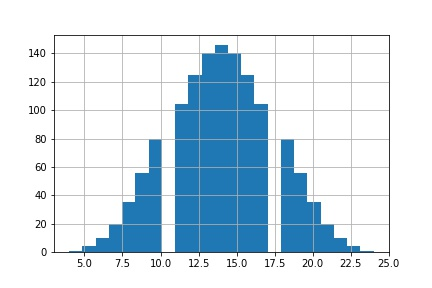
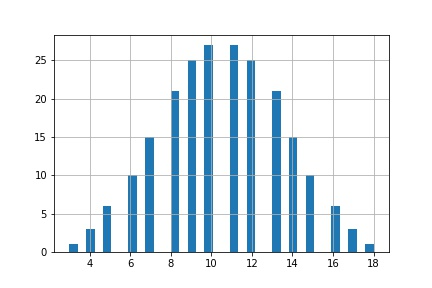
git work

Changed region(s): [[0.0602, 0.125, 0.9329, 0.9375]]

diff --git a/weight_guesser/dice_roller.py b/weight_guesser/dice_roller.py
@@ -46,8 +46,6 @@ def roll_die(number):
         number_list = get_num_list(number)
         df = pd.DataFrame(list(product(dice, repeat= number)), columns=number_list) #list of all possibilities for two six-sided dice
         df['Sum'] = df.sum(axis=1)
-        #dp = df['Sum'].value_counts(normalize=True)
-        #df_1 = df['Sum'].value_counts(normalize=False)
     return df
         
 def main():
@@ -56,16 +54,16 @@ def main():
         number = i + 1
         df = roll_die(number)
         print(df)
-        fig = df['Sum'].hist(bins=6 * (i + 1) - 1) 
+        fig = df['Sum'].hist(bins=6 * (i + 1) * 2) 
         plt.savefig(f"dice{i + 1}.jpg")
         figs.append(fig)
         plt.clf()
         if number == 5:
             print("Standard deviation:",statistics.stdev(df['Sum']))
             print("Mean:",statistics.mean(df['Sum']))
-            print("z-score:",stats.zscore(df['Sum']))
-        
+            print("z-score:",stats.zscore(df['Sum']))     
     return figs
+
 if __name__ == "__main__":
     figs = main()
     
